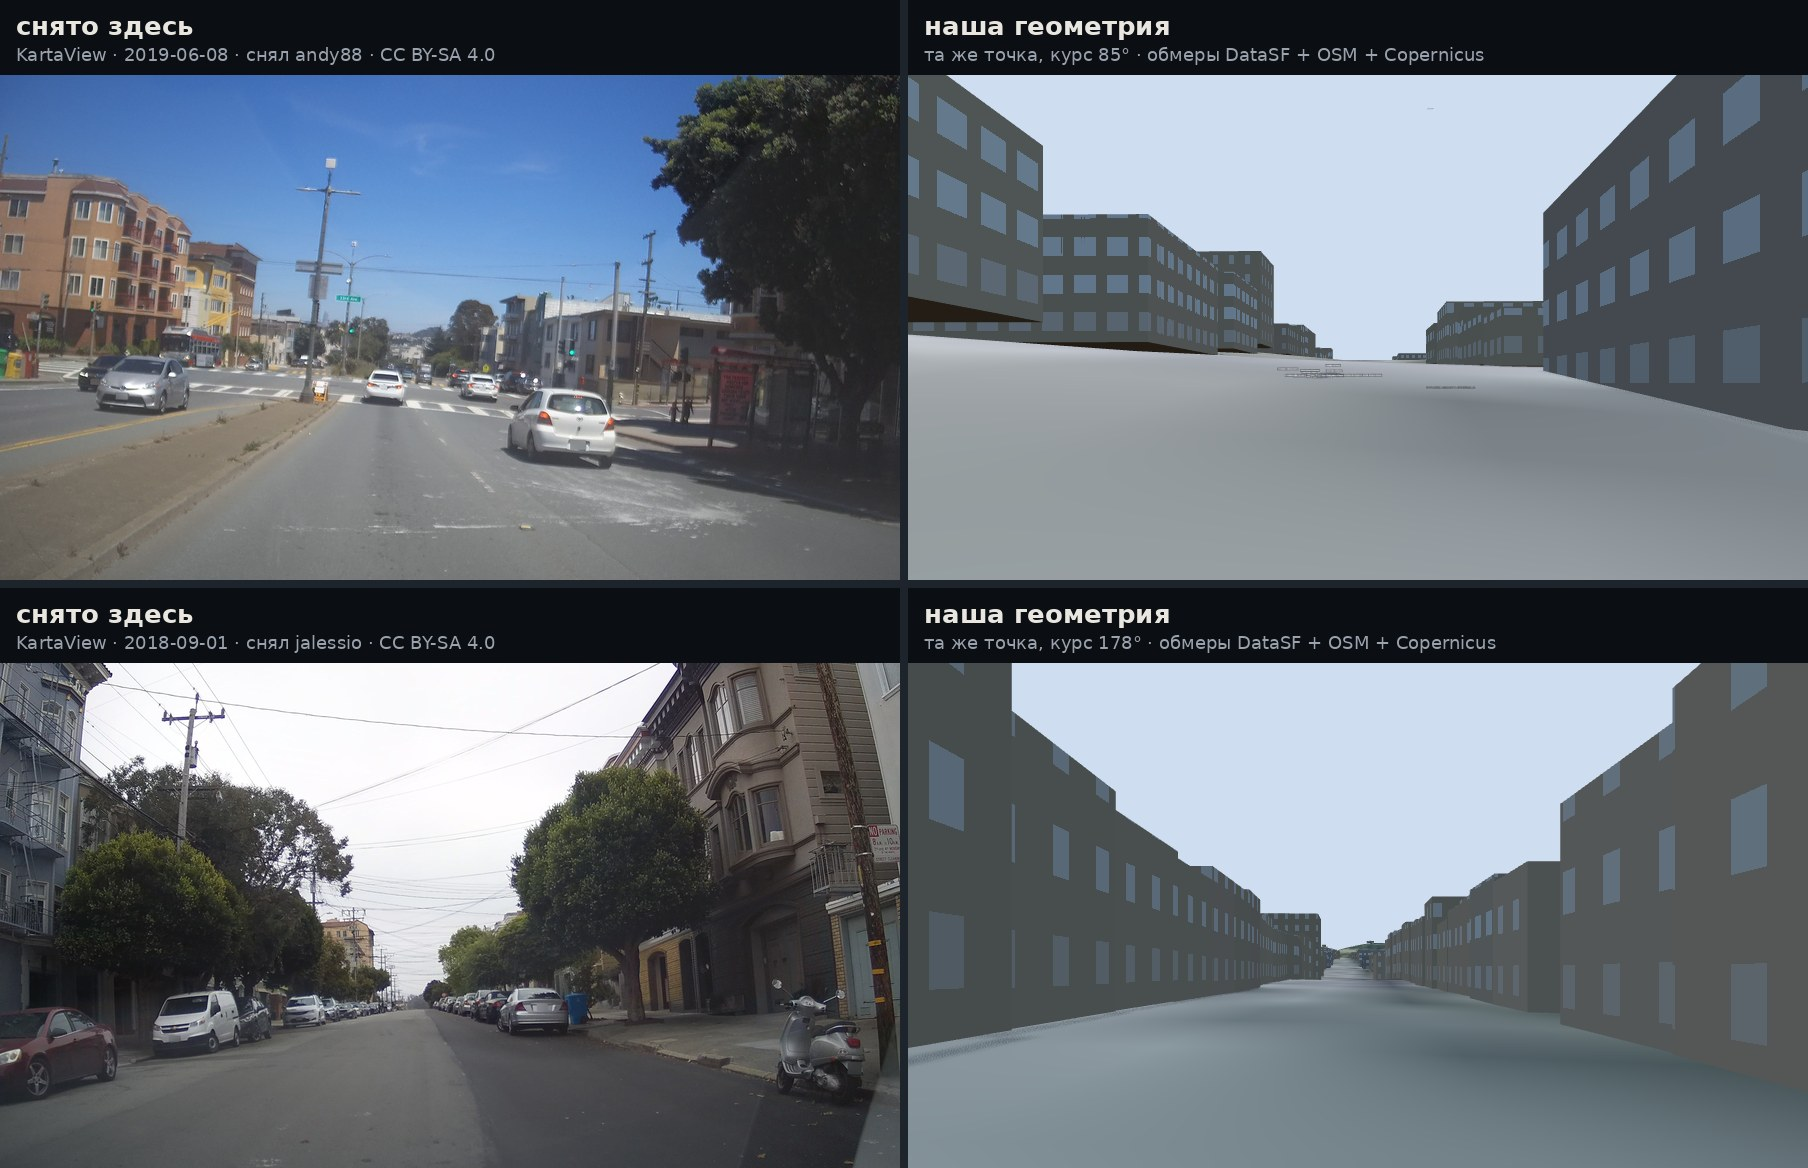
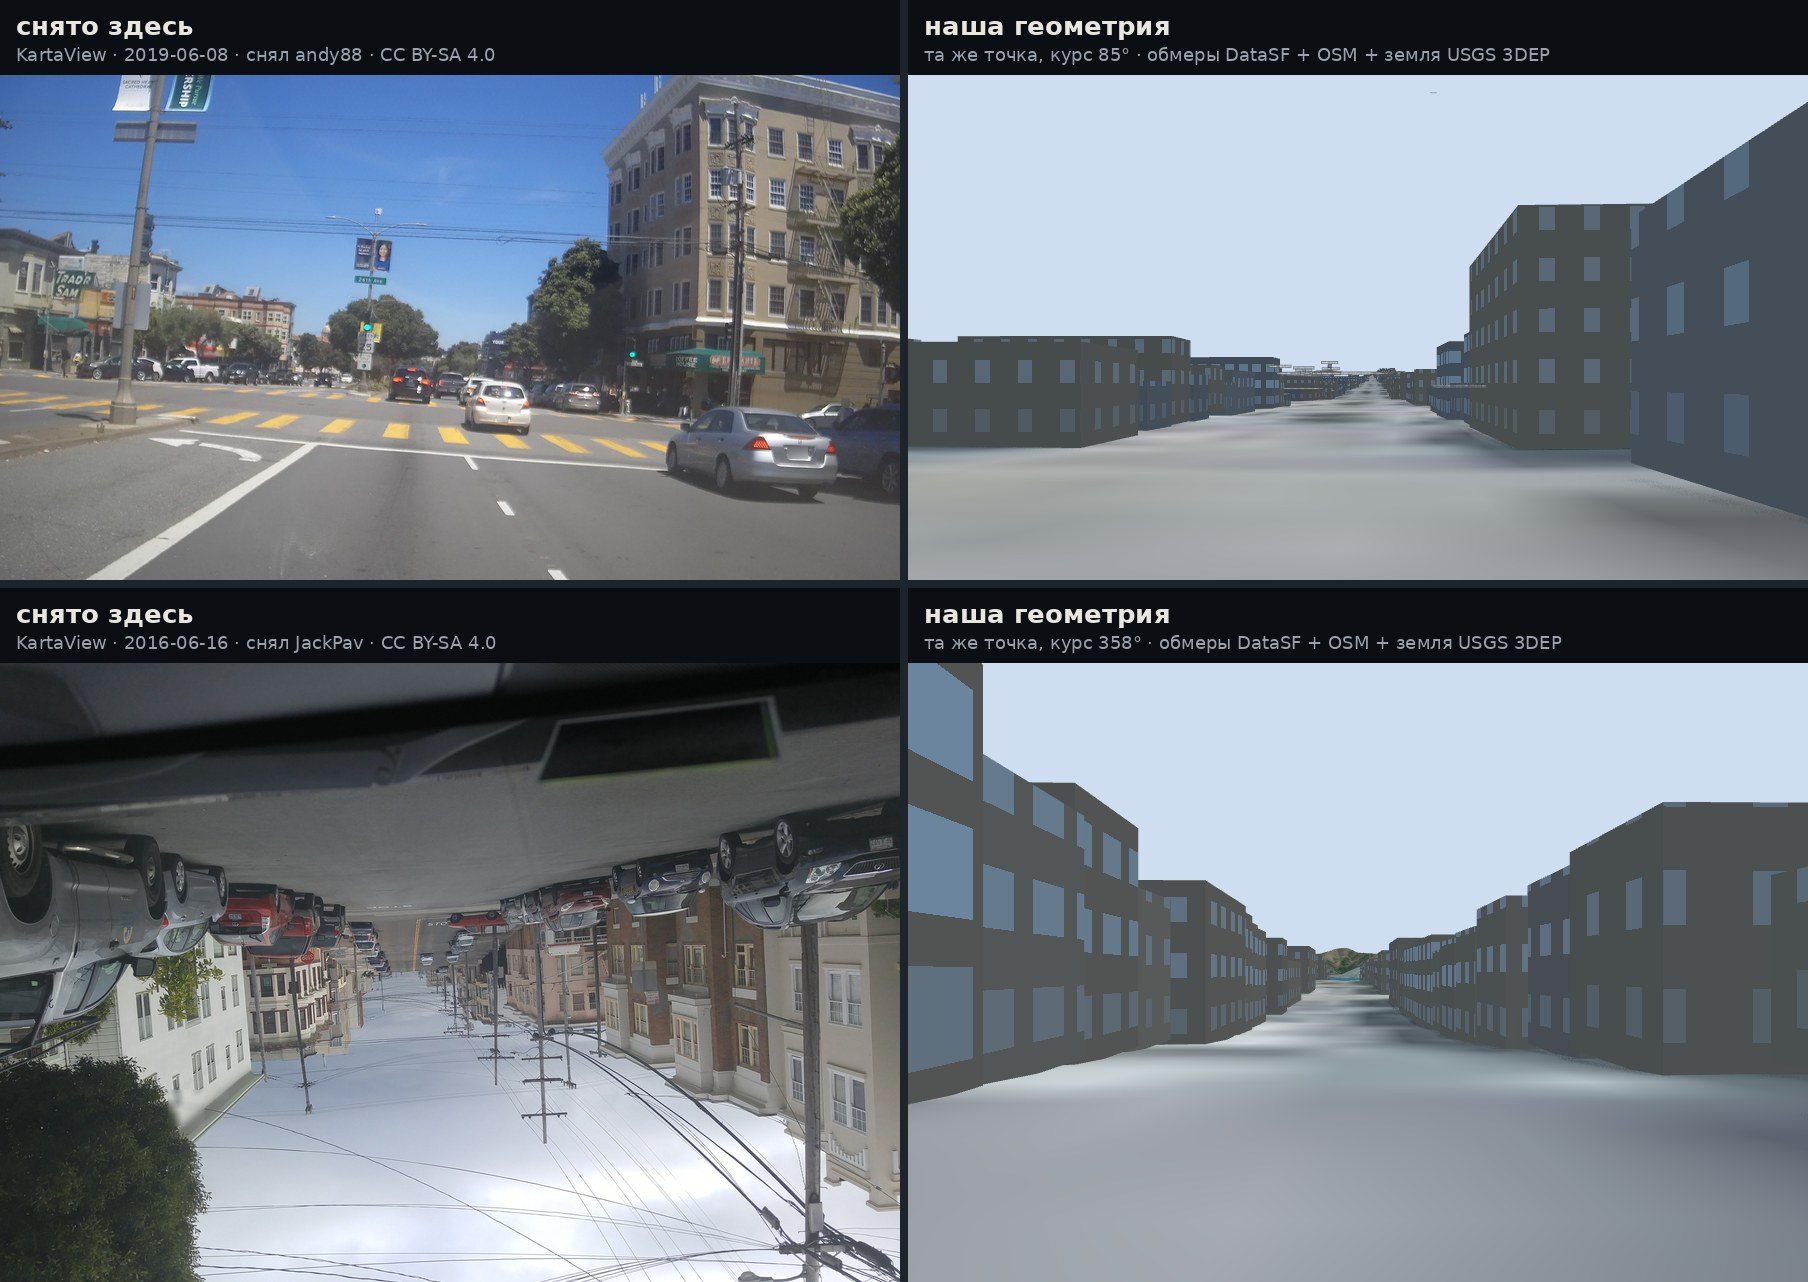
Some dashcams hung upside down and did not say so
A KartaView frame turned up inverted with an empty EXIF orientation tag - the
camera was mounted that way for the whole run. It cannot be detected in the
browser: KartaView serves without CORS, so a canvas holding the frame is
tainted and its pixels cannot be read. So the flip is a button on the photo
panel, and it remembers its answer per *sequence* rather than per frame,
because one contributor's camera hung one way for an entire drive - fix it
once and the rest of that run comes out right.

Also fixes twin/keys.py --pull-hf, which looked for the private store as a
model repo when it is a dataset.

Claude-Session: https://claude.ai/code/session_01FgsiD2hf5qvjeuta7mePpo

diff --git a/twin/_view_js.py b/twin/_view_js.py
@@ -58,6 +58,7 @@ html,body{margin:0;height:100%;overflow:hidden;background:#0b0e13;
 #photo .cap{font-size:11px;color:#9aa3ad;margin-top:5px;line-height:1.35}
 #photo .cap a{color:#7ab0d6}
 #photo .row{display:flex;gap:6px;margin-top:7px}
+#photo #phFlip{flex:0 0 34px}
 #photo button{flex:1;background:rgba(255,255,255,.06);
   border:1px solid rgba(255,255,255,.11);color:#cfd6dd;border-radius:6px;
   padding:5px 6px;font:inherit;font-size:11.5px;cursor:pointer}
@@ -135,6 +136,8 @@ BODY = """
   <div class="row">
     <button id="phStand" onclick="photoStand()">встать сюда</button>
     <button id="phAuto" onclick="photoToggleAuto()">идти следом</button>
+    <button id="phFlip" onclick="photoFlip()" title="часть регистраторов
+      висела вверх ногами, и EXIF об этом молчит">↻</button>
   </div>
   <div class="row" id="phGRow" style="display:none">
     <button onclick="ggStreetHere()">снимок Google отсюда</button>
@@ -1424,6 +1427,36 @@ function buildPhotos(){
 
 function photoHide(){ $('photo').style.display = 'none'; photoCur = -1; }
 
+// Часть регистраторов висела вверх ногами, и EXIF об этом молчит — кадр
+// приезжает перевёрнутым. Определить это в браузере нельзя: у KartaView нет
+// CORS, значит холст с кадром «протухает» и пиксели не прочитать. Поэтому
+// переворот ручной, но запоминается на ВСЮ СЕРИЮ: у одного регистратора
+// камера висела одинаково весь заезд, так что чинится это один раз.
+function photoSeq(p){
+  var m = /details\/(\d+)/.exec(p && p[11] || '');
+  return m ? m[1] : '';
+}
+function photoFlipped(p){
+  var s = photoSeq(p);
+  if (!s) return false;
+  try { return localStorage.getItem('twin_flip_' + s) === '1'; }
+  catch (e) { return false; }
+}
+function photoFlip(){
+  var p = photoData[photoCur];
+  if (!p) return;
+  var s = photoSeq(p);
+  if (!s) return;
+  var now = !photoFlipped(p);
+  try { localStorage.setItem('twin_flip_' + s, now ? '1' : '0'); } catch (e) {}
+  photoApplyFlip(p);
+}
+function photoApplyFlip(p){
+  var on = photoFlipped(p);
+  $('phImg').style.transform = on ? 'rotate(180deg)' : '';
+  $('phFlip').classList.toggle('on', on);
+}
+
 function photoShow(i){
   var p = photoData[i];
   if (!p) return;
@@ -1446,6 +1479,8 @@ function photoShow(i){
     + (p[11] ? ' · <a href="' + p[11] + '" target="_blank" rel="noopener">'
                + 'первоисточник</a>' : '');
   $('phStand').style.display = p[3] >= 0 ? '' : 'none';
+  $('phFlip').style.display = photoSeq(p) ? '' : 'none';
+  photoApplyFlip(p);
   $('phGRow').style.display = GKEY ? '' : 'none';
   $('photo').style.display = 'block';
 }

diff --git a/twin/keys.py b/twin/keys.py
@@ -449,8 +449,9 @@ def pull_hf(token: str | None = None) -> tuple[int, str]:
         raise RuntimeError("нет HF_TOKEN в окружении — без него приватный "
                            "склад не открыть")
     from huggingface_hub import hf_hub_download
+    # склад заведён как датасет — с repo_type="model" файл не найдётся
     path = hf_hub_download(repo_id=HF_SECRETS_REPO, filename=HF_KEYS_PATH,
-                           repo_type="model", token=token)
+                           repo_type="dataset", token=token)
     with open(path, "r", encoding="utf-8") as f:
         remote = json.load(f)
     data = _load_file()

diff --git a/AGENTS.md b/AGENTS.md
@@ -185,7 +185,14 @@ P(M>=5 за год)~43% — в коридоре USGS). ЧЕСТНО: поток 
 внутри [0, 360). Прореживание: KartaView отдаёт ~4000 кадров на радиус 450 м
 (регистратор в пробке снимает один бампер сотню раз) — оставляем свежий кадр
 на 22 м при сборе и на 45 м в сцене. ГРАБЛИ: у KartaView нет CORS, поэтому
-кадр годится в панель <img>, но НЕ в текстуру WebGL; Викисклад с
+кадр годится в панель <img>, но НЕ в текстуру WebGL (и по той же причине
+нельзя определить перевёрнутый кадр в браузере: холст «протухает», пиксели не
+прочитать — часть регистраторов висела вверх ногами, EXIF пуст, поэтому в
+панели есть ручной переворот с памятью на всю СЕРИЮ: у одного заезда камера
+висела одинаково); сырой GPS регистратора врёт на десятки метров (в записях
+бывает gps_accuracy 20 м) и ставит наблюдателя внутрь дома — берём точку,
+посаженную KartaView на линию дороги (match_lat/match_lng), и откатываемся к
+сырой, только если посадка уехала дальше 40 м; Викисклад с
 generator=geosearch отдаёт координаты только первым десяти страницам, пока не
 попросишь colimit=max; курс округляем ДО приведения к кругу, иначе 359.97
 превращается в 360.0 уже после нормировки.

diff --git a/CLAUDE.md b/CLAUDE.md
@@ -182,7 +182,14 @@ P(M>=5 за год)~43% — в коридоре USGS). ЧЕСТНО: поток 
 внутри [0, 360). Прореживание: KartaView отдаёт ~4000 кадров на радиус 450 м
 (регистратор в пробке снимает один бампер сотню раз) — оставляем свежий кадр
 на 22 м при сборе и на 45 м в сцене. ГРАБЛИ: у KartaView нет CORS, поэтому
-кадр годится в панель <img>, но НЕ в текстуру WebGL; Викисклад с
+кадр годится в панель <img>, но НЕ в текстуру WebGL (и по той же причине
+нельзя определить перевёрнутый кадр в браузере: холст «протухает», пиксели не
+прочитать — часть регистраторов висела вверх ногами, EXIF пуст, поэтому в
+панели есть ручной переворот с памятью на всю СЕРИЮ: у одного заезда камера
+висела одинаково); сырой GPS регистратора врёт на десятки метров (в записях
+бывает gps_accuracy 20 м) и ставит наблюдателя внутрь дома — берём точку,
+посаженную KartaView на линию дороги (match_lat/match_lng), и откатываемся к
+сырой, только если посадка уехала дальше 40 м; Викисклад с
 generator=geosearch отдаёт координаты только первым десяти страницам, пока не
 попросишь colimit=max; курс округляем ДО приведения к кругу, иначе 359.97
 превращается в 360.0 уже после нормировки.

diff --git a/README.md b/README.md
@@ -130,6 +130,22 @@ heading; *follow along* keeps the nearest frame facing your way (±55°, within
 250 m) beside you as you walk. A frame without a heading is useless for this,
 which is why `doctor` insists on one.
 
+![A real dashcam frame beside our geometry from the same point and bearing](docs/twin_photo_check.jpg)
+
+That picture is the point of the feature. The street canyon, the building line
+and the fall of the hill match a photograph taken from the same spot — the
+skeleton is right. The trees, the cars, the poles and every surface do not
+exist. Which is exactly the state of the model, now visible rather than
+asserted, and exactly why the remaining work is an appearance layer over a
+skeleton that already holds.
+
+Two things the data taught us here: the raw dashcam GPS is off by tens of metres
+(the records report 20 m accuracy themselves), so we prefer KartaView's
+road-snapped position and fall back to raw only when the snap wanders more than
+40 m; and some contributors mounted the camera upside down without recording it
+in EXIF, so the panel carries a flip button that remembers its answer for the
+whole sequence — one camera, one decision.
+
 **Google's imagery, if you bring a key.** Three Google Maps Platform products
 are wired in behind a key you enter in the browser — Street View Static (a
 photograph from the exact spot and bearing you are standing at), Map Tiles 2D
